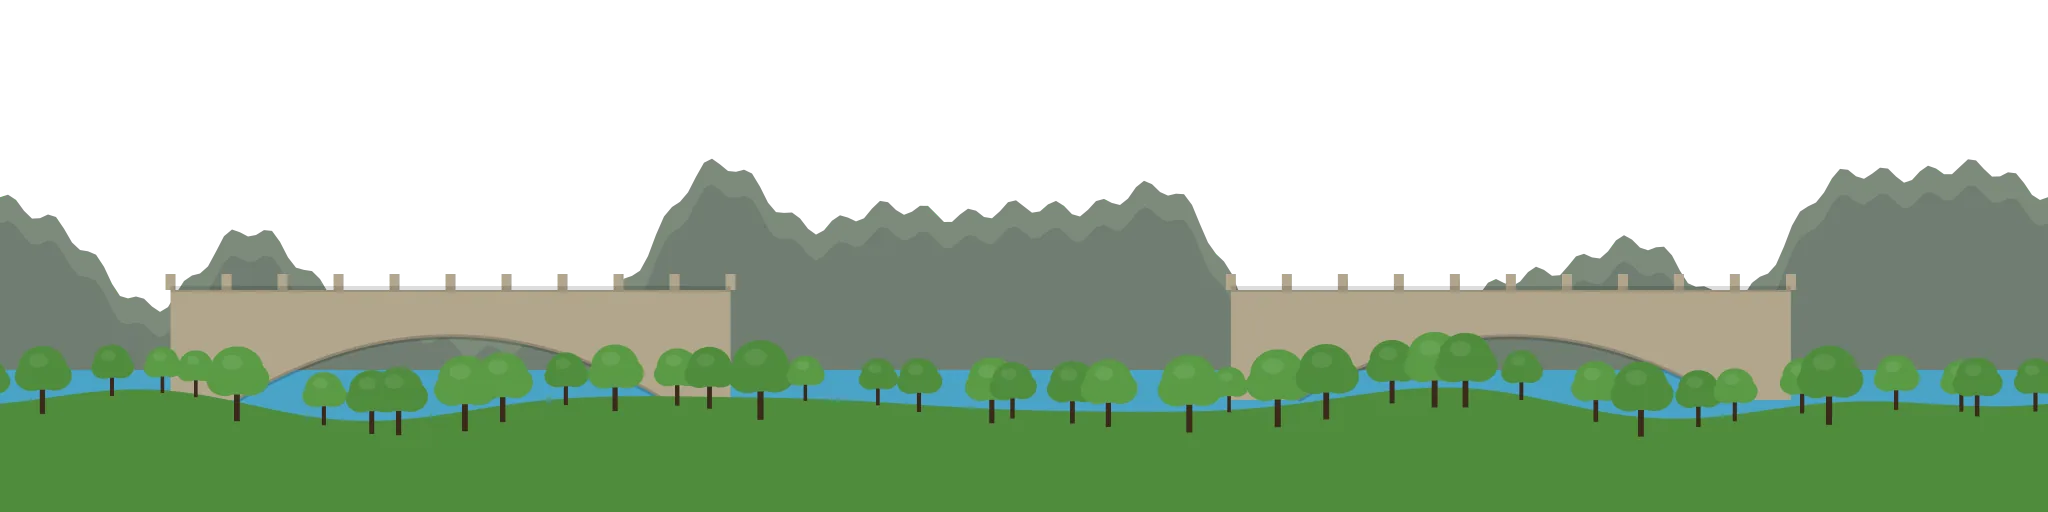
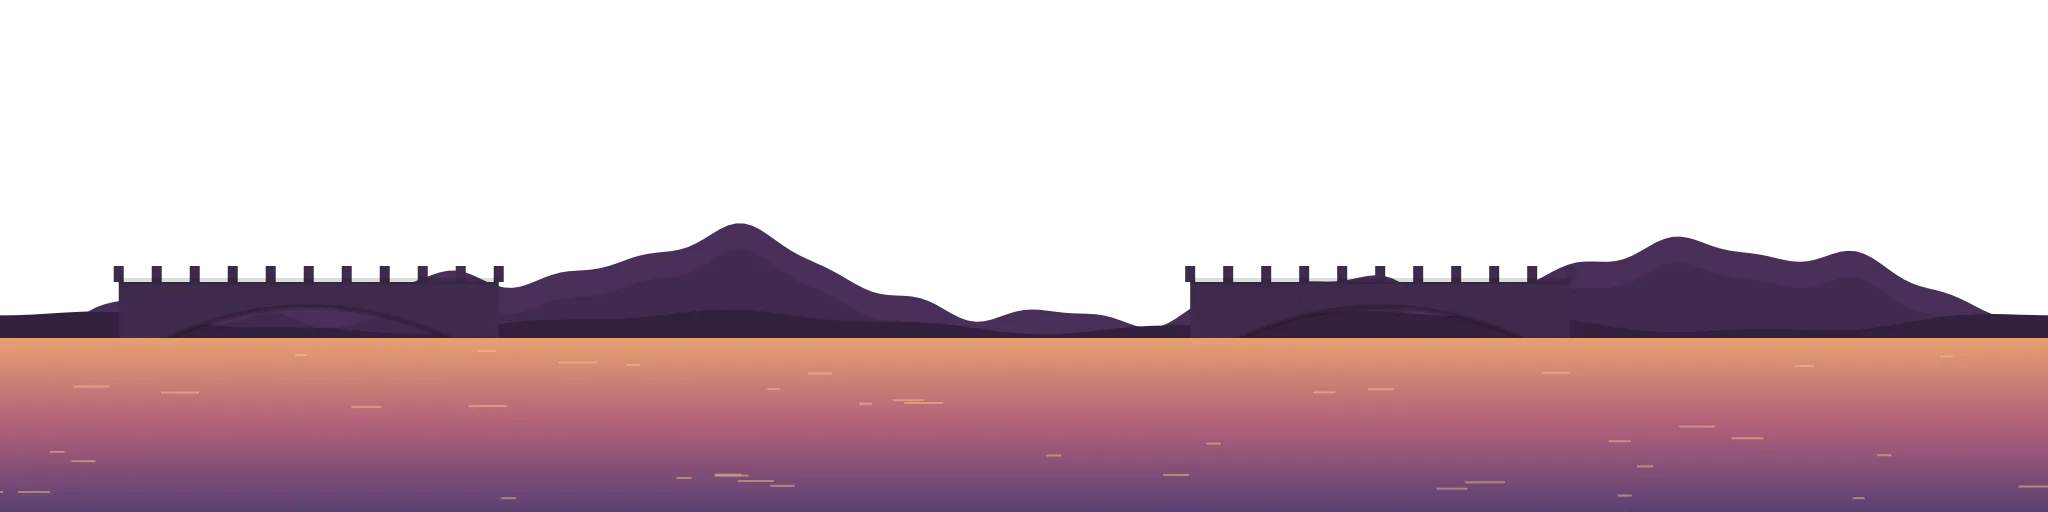
feat(arena): God's Bridge is a bridge deck over a river at sunset
The ground is the stone deck, ending at a parapet behind the grid; below
it runs a 3D river with waves and the sun's glitter path; the sky is a
sunset with the far shore and a distant bridge in silhouette. Regions can
set the scene light (warm and low here).

diff --git a/apps/frontend/src/app/features/play/arena/arena-scenery.ts b/apps/frontend/src/app/features/play/arena/arena-scenery.ts
@@ -27,9 +27,25 @@ const LAYERS: LayerSpec[] = [
   { key: 'near', z: -22, width: 120, height: 15, bottom: -1.2, repeat: 2, speed: 0.6, transparent: true },
 ];
 
+/** Where a bridge deck ends behind the grid (world z): a parapet, then the drop to the river. */
+const DECK_BACK_Z = -15;
+const RIVER_Y = -1.8;
+/** Regions whose ground is a bridge deck over a river. */
+const BRIDGES: ReadonlySet<ArenaRegionId> = new Set(['gods_bridge']);
+
+/** Light per region (hemisphere sky/ground, sun): the bridge is lit by a low warm sunset. */
+export interface ArenaLight { sky: string; ground: string; hemi: number; sun: string; sunIntensity: number }
+const DEFAULT_LIGHT: ArenaLight = { sky: '#fff6e6', ground: '#5a6a3a', hemi: 1.6, sun: '#ffffff', sunIntensity: 2.2 };
+const LIGHTS: Partial<Record<ArenaRegionId, ArenaLight>> = {
+  gods_bridge: { sky: '#ffd2b0', ground: '#4a3a5a', hemi: 1.45, sun: '#ffb070', sunIntensity: 2.5 },
+};
+export function arenaLight(region: ArenaRegionId): ArenaLight { return LIGHTS[region] ?? DEFAULT_LIGHT; }
+
 interface LayerSet {
   region: ArenaRegionId; group: THREE.Group; materials: THREE.MeshBasicMaterial[]; textures: THREE.Texture[]; layers: Array<{ spec: LayerSpec; texture: THREE.Texture }>;
-  ground: THREE.Texture; groundMaterial: THREE.MeshLambertMaterial; travel: { value: number }; props: ArenaProps; bornAt: number;
+  ground: THREE.Texture; groundMaterial: THREE.MeshLambertMaterial; travel: { value: number }; time: { value: number }; props: ArenaProps; bornAt: number;
+  /** Extra materials faded with the ground (the bridge's river, wall and parapet). */
+  extras: THREE.Material[];
 }
 
 export class ArenaScenery {
@@ -70,12 +86,14 @@ export class ArenaScenery {
       for (const { spec, texture } of set.layers) texture.offset.x = ((travelled * spec.speed) / (spec.width / spec.repeat)) % 1;
       set.ground.offset.x = (travelled / GROUND_TILE_M) % 1;
       set.travel.value = travelled;
+      set.time.value = (nowMs % 600_000) / 1000;
       set.props.update(travelled);
     }
     if (this.current) {
       const f = this.leaving ? Math.min(1, (nowMs - this.current.bornAt) / CROSSFADE_MS) : 1;
       for (const m of this.current.materials) m.opacity = f;
       this.current.groundMaterial.opacity = f;
+      for (const m of this.current.extras) m.opacity = f;
       if (this.leaving && f >= 1) { this.dispose(this.leaving); this.leaving = null; }
     }
   }
@@ -85,6 +103,7 @@ export class ArenaScenery {
       set.group.removeFromParent();
       for (const m of set.materials) m.dispose();
       set.groundMaterial.dispose();
+      for (const m of set.extras) m.dispose();
       set.props.dispose();
       for (const t of set.textures) t.dispose();
       return;
@@ -105,11 +124,66 @@ export class ArenaScenery {
     return texture;
   }
 
+  /** The river below the deck (animated, sunset reflection), the deck's side wall and its parapet rails. */
+  private buildBridge(set: LayerSet): void {
+    const fading = !!this.current;
+    const river = new THREE.ShaderMaterial({
+      uniforms: { uTravel: set.travel, uTime: set.time, opacity: { value: fading ? 0 : 1 } },
+      transparent: true, depthWrite: false, fog: false,
+      vertexShader: /* glsl */ `
+        varying vec2 vLocal;
+        void main() { vLocal = position.xy; gl_Position = projectionMatrix * modelViewMatrix * vec4(position, 1.0); }`,
+      fragmentShader: /* glsl */ `
+        uniform float uTravel; uniform float uTime; uniform float opacity;
+        varying vec2 vLocal;
+        void main() {
+          // Plane space: x along the river (scenery-local), y = depth away from the deck (0 at the wall).
+          float far = clamp(vLocal.y / 100.0, 0.0, 1.0);
+          vec3 col = mix(vec3(0.20, 0.17, 0.36), vec3(0.85, 0.48, 0.38), pow(far, 0.7));
+          float x = vLocal.x + uTravel;
+          float waves = sin(x * 0.55 + uTime * 1.3 + sin(vLocal.y * 0.35)) * sin(vLocal.y * 1.4 - uTime * 0.9 + x * 0.12);
+          col += vec3(0.05, 0.04, 0.07) * waves;
+          // The sun's glitter path, held in front of the camera like the sun itself.
+          // The sun is painted ~34 m right of centre on the sky, 150 m from the camera: its path on the water.
+          float path = exp(-pow((vLocal.x - 34.0 * (45.0 + vLocal.y) / 150.0) / (2.5 + vLocal.y * 0.12), 2.0));
+          float glint = smoothstep(0.55, 0.95, waves * 0.5 + 0.5);
+          col += vec3(1.0, 0.82, 0.55) * path * (0.25 + 0.75 * glint) * (0.35 + 0.65 * far);
+          gl_FragColor = vec4(col, opacity);
+        }`,
+    });
+    const riverGeometry = new THREE.PlaneGeometry(240, 110);
+    this.geometries.push(riverGeometry);
+    const water = new THREE.Mesh(riverGeometry, river);
+    water.rotation.x = -Math.PI / 2;
+    // Plane y runs to -z after the rotation: shift so y = 0 is the wall and y grows away from it.
+    riverGeometry.translate(0, 55, 0);
+    water.position.set(0, RIVER_Y, DECK_BACK_Z);
+    // Drawn between the sky and the far layer (the far shore is painted over it); never writes depth.
+    water.renderOrder = -9.5;
+    water.frustumCulled = false;
+    set.group.add(water);
+
+    const stone = (color: string) => new THREE.MeshLambertMaterial({ color, transparent: fading, opacity: fading ? 0 : 1 });
+    const wallMaterial = stone('#7d6c56'), railMaterial = stone('#b8a888');
+    const wallGeometry = new THREE.PlaneGeometry(240, -RIVER_Y + 0.2);
+    const railGeometry = new THREE.BoxGeometry(240, 0.2, 0.55);
+    const curbGeometry = new THREE.BoxGeometry(240, 0.28, 0.7);
+    this.geometries.push(wallGeometry, railGeometry, curbGeometry);
+    const wall = new THREE.Mesh(wallGeometry, wallMaterial);
+    wall.position.set(0, RIVER_Y / 2, DECK_BACK_Z);
+    const rail = new THREE.Mesh(railGeometry, railMaterial);
+    rail.position.set(0, 1.02, DECK_BACK_Z + 0.4);
+    const curb = new THREE.Mesh(curbGeometry, railMaterial);
+    curb.position.set(0, 0.14, DECK_BACK_Z + 0.4);
+    for (const m of [wall, rail, curb]) { m.frustumCulled = false; set.group.add(m); }
+    set.extras.push(river, wallMaterial, railMaterial);
+  }
+
   private build(region: ArenaRegionId, nowMs: number): LayerSet {
     const assets = arenaRegionAssets(region);
     const group = new THREE.Group();
     group.name = `arena:scenery:${region}`;
-    const set: LayerSet = { region, group, materials: [], textures: [], layers: [], ground: null!, groundMaterial: null!, travel: { value: 0 }, props: null!, bornAt: nowMs };
+    const set: LayerSet = { region, group, materials: [], textures: [], layers: [], ground: null!, groundMaterial: null!, travel: { value: 0 }, time: { value: 0 }, props: null!, bornAt: nowMs, extras: [] };
     // Painted layers: unlit, behind everything, never write depth (the grid draws over them).
     for (const spec of LAYERS) {
       const texture = this.texture(assets[spec.key], spec.repeat);
@@ -124,20 +198,24 @@ export class ArenaScenery {
     }
     // Ground: lit, tiling both ways, reaching under the far layer and in front of the camera. 1 m quads
     // so the relief (flat across the grid) can rise behind and in front of it.
-    const size = { w: 240, d: 120 };
+    // A bridge deck stops at its parapet behind the grid; elsewhere the ground runs to the far layer.
+    const bridge = BRIDGES.has(region);
+    const size = bridge ? { w: 240, d: 40 - DECK_BACK_Z } : { w: 240, d: 120 };
+    const centreZ = bridge ? (DECK_BACK_Z + 40) / 2 : GROUND_Z;
     const ground = this.texture(assets.ground, size.w / GROUND_TILE_M, size.d / GROUND_TILE_M);
     const groundMaterial = new THREE.MeshLambertMaterial({ map: ground, transparent: !!this.current, opacity: this.current ? 0 : 1 });
-    terrainShader(groundMaterial, set.travel, RELIEF[region] ?? 1);
+    terrainShader(groundMaterial, set.travel, RELIEF[region] ?? 1, centreZ);
     const geometry = new THREE.PlaneGeometry(size.w, size.d, size.w, size.d);
     this.geometries.push(geometry);
     const plane = new THREE.Mesh(geometry, groundMaterial);
     plane.rotation.x = -Math.PI / 2;
-    plane.position.set(0, 0, GROUND_Z);
+    plane.position.set(0, 0, centreZ);
     plane.renderOrder = -5;
     plane.frustumCulled = false;
     group.add(plane);
     set.props = new ArenaProps(region, RELIEF[region] ?? 1);
     group.add(set.props.group);
+    if (bridge) this.buildBridge(set);
     set.ground = ground; set.groundMaterial = groundMaterial; set.textures.push(ground);
     return set;
   }
@@ -151,17 +229,18 @@ const GROUND_Z = -120 / 2 + 40;
  * and a less repetitive texture: a second, rotated sample at another scale blended in by a slow noise,
  * and a broad light/dark variation. `travel` (metres walked + camera x) keeps both fixed to the world.
  */
-function terrainShader(material: THREE.MeshLambertMaterial, travel: { value: number }, relief: number): void {
+function terrainShader(material: THREE.MeshLambertMaterial, travel: { value: number }, relief: number, centreZ: number): void {
   material.onBeforeCompile = (shader) => {
     shader.uniforms['uTravel'] = travel;
     shader.uniforms['uRelief'] = { value: relief };
+    shader.uniforms['uGroundZ'] = { value: centreZ };
     shader.vertexShader = shader.vertexShader
       .replace('#include <common>', `#include <common>
-uniform float uTravel; uniform float uRelief; varying vec2 vTerrain;
+uniform float uTravel; uniform float uRelief; uniform float uGroundZ; varying vec2 vTerrain;
 ${TERRAIN_GLSL}`)
       .replace('#include <beginnormal_vertex>', `
-// Plane space: x along the ground, y = -(world z - ${GROUND_Z.toFixed(1)}), z up.
-vec2 terrainAt = vec2(position.x + uTravel, -position.y + ${GROUND_Z.toFixed(1)});
+// Plane space: x along the ground, y = -(world z - uGroundZ), z up.
+vec2 terrainAt = vec2(position.x + uTravel, -position.y + uGroundZ);
 float hx = arenaHeight(terrainAt + vec2(0.25, 0.0), uRelief) - arenaHeight(terrainAt - vec2(0.25, 0.0), uRelief);
 float hz = arenaHeight(terrainAt + vec2(0.0, 0.25), uRelief) - arenaHeight(terrainAt - vec2(0.0, 0.25), uRelief);
 vec3 objectNormal = normalize(vec3(-hx / 0.5, hz / 0.5, 1.0));

diff --git a/apps/frontend/src/app/features/play/arena/arena-runtime.ts b/apps/frontend/src/app/features/play/arena/arena-runtime.ts
@@ -16,7 +16,7 @@ import { ArenaActorView, type ArenaActorVisual } from './arena-actor-views';
 import { ARENA_CAMERA_FOV_DEG, ARENA_CAMERA_PITCH_DEG, cellToWorld, frameCells } from './arena-camera';
 import type { ArenaSceneFrame } from './arena-phase';
 import type { ArenaRegionId } from './arena-region';
-import { ArenaScenery } from './arena-scenery';
+import { ArenaScenery, arenaLight } from './arena-scenery';
 
 export type { ArenaActorVisual } from './arena-actor-views';
 export interface ArenaFrameInput { scene: ArenaSceneFrame; visuals: Map<string, ArenaActorVisual>; region: ArenaRegionId }
@@ -64,6 +64,9 @@ class ArenaRuntime implements ArenaRuntimeHandle {
   private readonly scene = new THREE.Scene();
   private readonly camera = new THREE.PerspectiveCamera(ARENA_CAMERA_FOV_DEG, 16 / 9, 0.5, 400);
   private readonly scenery: ArenaScenery;
+  private readonly hemi = new THREE.HemisphereLight('#fff6e6', '#5a6a3a', 1.6);
+  private readonly sun = new THREE.DirectionalLight('#ffffff', 2.2);
+  private litRegion: string | null = null;
   private readonly views = new Map<string, ArenaActorView>();
   private readonly arrows: THREE.Object3D[] = [];
   private readonly sparks: THREE.Sprite[] = [];
@@ -98,10 +101,9 @@ class ArenaRuntime implements ArenaRuntimeHandle {
     factory.prepare = (object) => this.prepare(object);
 
     this.scene.background = new THREE.Color('#9fc8ec');
-    this.scene.add(new THREE.HemisphereLight('#fff6e6', '#5a6a3a', 1.6));
-    const sun = new THREE.DirectionalLight('#ffffff', 2.2);
-    sun.position.set(-8, 16, 12);
-    this.scene.add(sun);
+    this.scene.add(this.hemi);
+    this.sun.position.set(-8, 16, 12);
+    this.scene.add(this.sun);
     this.scenery = new ArenaScenery(this.renderer.capabilities.getMaxAnisotropy());
     this.scene.add(this.scenery.group);
     this.sparkMaterial = new THREE.SpriteMaterial({ map: sparkTexture(), transparent: true, blending: THREE.AdditiveBlending, depthWrite: false });
@@ -198,6 +200,12 @@ class ArenaRuntime implements ArenaRuntimeHandle {
   private apply(input: ArenaFrameInput, nowMs: number, dtMs: number): void {
     const { scene } = input;
     this.scenery.setRegion(input.region, nowMs);
+    if (input.region !== this.litRegion) {
+      this.litRegion = input.region;
+      const light = arenaLight(input.region);
+      this.hemi.color.set(light.sky); this.hemi.groundColor.set(light.ground); this.hemi.intensity = light.hemi;
+      this.sun.color.set(light.sun); this.sun.intensity = light.sunIntensity;
+    }
 
     // Views: create for new actors, drop the ones that left the frame.
     const seen = new Set<string>();

diff --git a/apps/frontend/src/app/features/play/arena/arena-prop-layout.ts b/apps/frontend/src/app/features/play/arena/arena-prop-layout.ts
@@ -13,7 +13,7 @@ import { ARENA_FLAT_HALF_DEPTH_M } from './arena-terrain';
 
 export const ARENA_PROP_PERIOD_M = 180;
 
-export type ArenaPropKind = 'rock' | 'block' | 'bush' | 'log' | 'twig' | 'leaf' | 'pebble' | 'palm';
+export type ArenaPropKind = 'rock' | 'block' | 'bush' | 'log' | 'twig' | 'leaf' | 'pebble' | 'palm' | 'post';
 export interface ArenaPropSpec {
   kind: ArenaPropKind;
   count: number;
@@ -98,6 +98,8 @@ const hash = (s: string) => [...s].reduce((h, c) => Math.imul(h ^ c.charCodeAt(0
 export function arenaPropLayout(region: ArenaRegionId): ArenaPropInstance[] {
   const r = rng(hash(`arena-props:${region}`));
   const out: ArenaPropInstance[] = [];
+  // God's Bridge: the parapet's posts, evenly spaced along the deck's back edge.
+  if (region === 'gods_bridge') for (let i = 0; i < ARENA_PROP_PERIOD_M / 2.5; i++) out.push({ kind: 'post', u: i * 2.5, z: -14.6, size: 1, yaw: 0, tilt: 0, color: '#c2b294', variant: 0 });
   for (const spec of arenaPropSpecs(region)) {
     for (let i = 0; i < spec.count; i++) {
       const band = spec.bands[Math.floor(r() * spec.bands.length)];

diff --git a/tools/arena-assets/preview/arena-entry.ts b/tools/arena-assets/preview/arena-entry.ts
@@ -48,6 +48,7 @@ const SHOTS: Record<string, Shot> = {
   solo_close: { battle: solo, region: 'ipora_beach', mode: 'battle', at: (b) => b.startAtMs + 26 * 500 + 420 },
   party_fight: { battle: party, region: 'menace_hills', mode: 'battle', at: (b) => b.startAtMs + 5 * 500 + 30, party: ['char-self', 'char-ally'] },
   party_status: { battle: statuses, region: 'wastelands', mode: 'battle', at: (b) => b.startAtMs + 3 * 500, party: ['char-self', 'char-ally'] },
+  bridge_fight: { battle: party, region: 'gods_bridge', mode: 'battle', at: (b) => b.startAtMs + 5 * 500 + 30, party: ['char-self', 'char-ally'] },
   ruins: { battle: party, region: 'forest_ruins', mode: 'battle', at: (b) => b.startAtMs + 1 * 500, party: ['char-self', 'char-ally'] },
   outro: { battle: solo, region: 'green_grounds', mode: 'outro', at: (b) => b.endAtMs + 600 },
   caete: { battle: solo, region: 'caete', mode: 'battle', at: (b) => b.startAtMs + 30 * 500 + 200 },

diff --git a/apps/frontend/src/app/features/play/arena/arena-props.ts b/apps/frontend/src/app/features/play/arena/arena-props.ts
@@ -78,6 +78,10 @@ function geometryOf(kind: ArenaPropKind): THREE.BufferGeometry {
       const g = lumpy(0.5, 0, 0.6, 9.1); g.translate(0, 0.12, 0);
       return shade(g, (p) => 0.85 + 0.3 * Math.max(0, p.y / 0.3));
     }
+    case 'post': {
+      const g = new THREE.BoxGeometry(0.42, 1.12, 0.42); g.translate(0, 0.56, 0);
+      return shade(g, (_p, n) => (n.y > 0.7 ? 1.1 : 0.9));
+    }
     case 'palm':
       return shade(new THREE.ConeGeometry(0.3, 4, 6), () => 1);
   }
